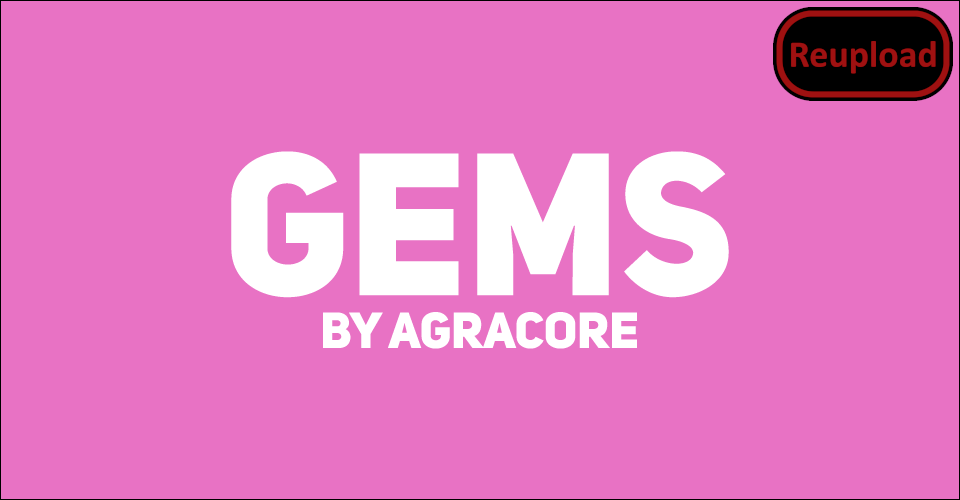
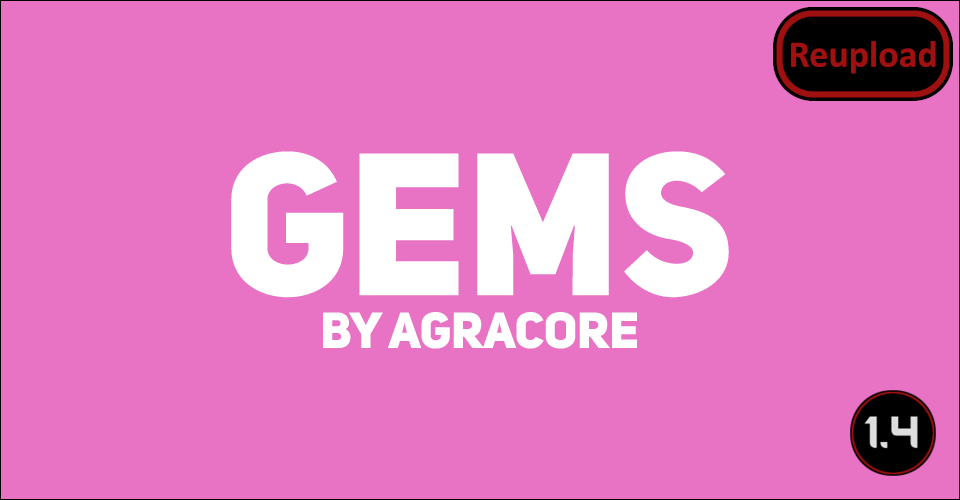
Added all gems to the long range mineral scanner

Changed region(s): [[0.875, 0.78, 1.0, 0.96]]

diff --git a/README.md b/README.md
@@ -6,6 +6,7 @@ Update of Agracores mod
 https://steamcommunity.com/sharedfiles/filedetails/?id=1525894232
 
 - Russian language added, provided by: Паулк
+- German translation added, thank you son1C!
 
 ![Image](https://i.imgur.com/pufA0kM.png)
 
@@ -61,11 +62,13 @@ This mod adds gemstone ores for trading and for art.
 
 -  See if the the error persists if you just have this mod and its requirements active.
 -  If not, try adding your other mods until it happens again.
--  Post your error-log using https://steamcommunity.com/workshop/filedetails/?id=818773962]HugsLib and command Ctrl+F12
+-  Post your error-log using https://steamcommunity.com/workshop/filedetails/?id=818773962]HugsLib or the standalone https://steamcommunity.com/sharedfiles/filedetails/?id=2873415404]Uploader and command Ctrl+F12
 -  For best support, please use the Discord-channel for error-reporting.
 -  Do not report errors by making a discussion-thread, I get no notification of that.
 -  If you have the solution for a problem, please post it to the GitHub repository.
+-  Use https://github.com/RimSort/RimSort/releases/latest]RimSort to sort your mods
 
 
 
+https://steamcommunity.com/sharedfiles/filedetails/changelog/2017517600]![Image](https://img.shields.io/github/v/release/emipa606/Gems?label=latest%20version&style=plastic&color=9f1111&labelColor=black)
 
